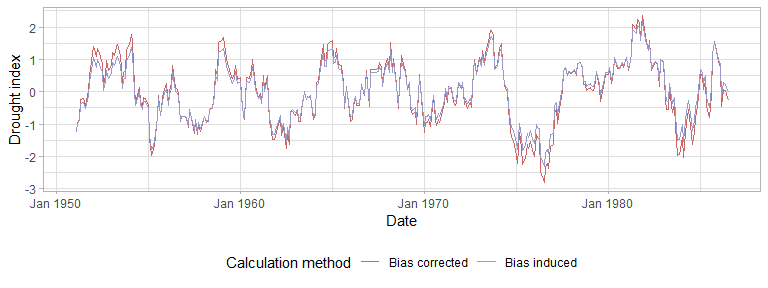
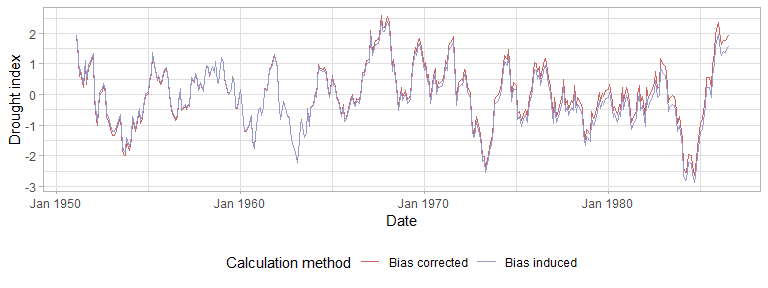
updating README

Changed region(s): [[0.0312, 0.0312, 1.0, 0.6875]]

diff --git a/README.md b/README.md
@@ -25,6 +25,10 @@ devtools::install_github("mammask/droughtR")
 
 ### Generate SPI and NSPI
 
+The function `computenspi` creates stationary and non-stationary
+meteorological drought indices at different time scales. By default,
+droughtR uses the gamma distribution:
+
 ``` r
 # Load droughtR library
 library(droughtR)
@@ -37,10 +41,9 @@ rain = dummyrainfall(startYear = 1950, endYear = 2010)
 
 # Compute the non-stationary standardized precipitation index (NSPI) for scale 12 using GAMLSS
 drought = computenspi(x = rain, stationaryspi = FALSE, spiScale = 12, dist = 'gamma')
-#> GAMLSS-RS iteration 1: Global Deviance = 3705.162 
-#> GAMLSS-RS iteration 2: Global Deviance = 3704.874 
-#> GAMLSS-RS iteration 3: Global Deviance = 3704.872 
-#> GAMLSS-RS iteration 4: Global Deviance = 3704.871
+#> GAMLSS-RS iteration 1: Global Deviance = 3310.748 
+#> GAMLSS-RS iteration 2: Global Deviance = 3310.49 
+#> GAMLSS-RS iteration 3: Global Deviance = 3310.49
 
 # Plot NSPI
 plot(drought)
@@ -48,31 +51,113 @@ plot(drought)
 
 <img src="README_figs/README-unnamed-chunk-3-1.png" style="display: block; margin: auto;" />
 
-### Reduced-Bias forecasting framework
+#### Model-Based Comparison of Drought Indices
+
+Using droughtR, we can compute indices under various distribution
+assumptions and then compare their fit according to how well they
+describe the data. In the following example, we generated synthetic
+rainfall data using the gamma distribution and then we created two
+non-stationary drought indices using the gamma and weibull distributions
+accordingly.
+
+``` r
+# Generate a synthetic rainfall dataset
+rainfall = dummyrainfall(startYear = 1950, endYear = 2023)
+
+# Create a non-stationary meteorological index under the gamma distribution assumption
+gammaIndex = computenspi(x = rainfall, stationaryspi = FALSE, spiScale = 12, dist = 'gamma')[["model"]]
+#> GAMLSS-RS iteration 1: Global Deviance = 4220.338 
+#> GAMLSS-RS iteration 2: Global Deviance = 4219.897 
+#> GAMLSS-RS iteration 3: Global Deviance = 4219.894 
+#> GAMLSS-RS iteration 4: Global Deviance = 4219.894
+
+# Plot the model diagnostics 
+plot(gammaIndex)
+```
+
+<img src="README_figs/README-unnamed-chunk-4-1.png" style="display: block; margin: auto;" />
+
+    #> ******************************************************************
+    #>        Summary of the Quantile Residuals
+    #>                            mean   =  0.0004645257 
+    #>                        variance   =  1.001428 
+    #>                coef. of skewness  =  -0.3648898 
+    #>                coef. of kurtosis  =  2.836916 
+    #> Filliben correlation coefficient  =  0.9942522 
+    #> ******************************************************************
+
+    # Create a non-stationary meteorological index under the weibull distribution assumption
+    weibullIndex = computenspi(x = rainfall, stationaryspi = FALSE, spiScale = 12, dist = 'weibull')$model
+    #> GAMLSS-RS iteration 1: Global Deviance = 4228.044 
+    #> GAMLSS-RS iteration 2: Global Deviance = 4225.758 
+    #> GAMLSS-RS iteration 3: Global Deviance = 4225.714 
+    #> GAMLSS-RS iteration 4: Global Deviance = 4225.712 
+    #> GAMLSS-RS iteration 5: Global Deviance = 4225.712
+
+    plot(weibullIndex)
+
+<img src="README_figs/README-unnamed-chunk-4-2.png" style="display: block; margin: auto;" />
+
+    #> ******************************************************************
+    #>        Summary of the Quantile Residuals
+    #>                            mean   =  0.005663939 
+    #>                        variance   =  0.9404692 
+    #>                coef. of skewness  =  0.4193841 
+    #>                coef. of kurtosis  =  2.961977 
+    #> Filliben correlation coefficient  =  0.9932369 
+    #> ******************************************************************
+
+As presented in the diagnostic charts, the Normal Q-Q plot of the GAMLSS
+model residuals suggest that the non-stationary index under the gamma
+distribution has a better fit.
+
+In this example, `GAIC()` is used to compare the two model-based drought
+indices using the AIC:
+
+``` r
+library(gamlss)
+#> Loading required package: splines
+#> Loading required package: gamlss.data
+#> 
+#> Attaching package: 'gamlss.data'
+#> The following object is masked from 'package:datasets':
+#> 
+#>     sleep
+#> Loading required package: gamlss.dist
+#> Loading required package: nlme
+#> Loading required package: parallel
+#>  **********   GAMLSS Version 5.4-20  **********
+#> For more on GAMLSS look at https://www.gamlss.com/
+#> Type gamlssNews() to see new features/changes/bug fixes.
+
+# Compare the two model based implementations using AIC
+GAIC(gammaIndex, weibullIndex)
+#>              df      AIC
+#> gammaIndex    4 4227.894
+#> weibullIndex  4 4233.712
+```
 
 #### Data Split
 
-You can simply split the data into train, validation and test using
-`oossplit`:
-
-<img src="./README_figs/data split.png" width="400px" style="display: block; margin: auto;" />
+The `oossplit` function splits the data into train, validation and test
+sets:
 
 ``` r
 # Split the rainfall series into training validation and test set:
 rain = oossplit(x = rain, trainratio = 0.6, validationratio = 0.2, testratio = 0.2)
 print(rain)
 #>          Date Rainfall Split
-#>   1: Jan 1950 9.020967 Train
-#>   2: Feb 1950 7.814959 Train
-#>   3: Mar 1950 8.027403 Train
-#>   4: Apr 1950 5.616300 Train
-#>   5: May 1950 8.916673 Train
+#>   1: Jan 1950 9.138443 Train
+#>   2: Feb 1950 7.098604 Train
+#>   3: Mar 1950 9.025275 Train
+#>   4: Apr 1950 6.285809 Train
+#>   5: May 1950 9.120874 Train
 #>  ---                        
-#> 606: Jul 2010 6.601038  Test
-#> 607: Aug 2010 6.824187  Test
-#> 608: Sep 2010 8.352428  Test
-#> 609: Oct 2010 7.650165  Test
-#> 610: Nov 2010 7.943304  Test
+#> 606: Jul 2010 8.220249  Test
+#> 607: Aug 2010 7.782283  Test
+#> 608: Sep 2010 7.153345  Test
+#> 609: Oct 2010 8.361481  Test
+#> 610: Nov 2010 7.915945  Test
 ```
 
 #### Bias measurement
@@ -100,35 +185,30 @@ rain = dummyrainfall(startYear = 1950, endYear = 2010)
 
 # Compute bias
 bias = measurebias(x = rain, trainratio = 0.6, validationratio = 0.2, testratio = 0.2, stationaryspi = TRUE, spiscale = 12, dist = 'normal')
-#> GAMLSS-RS iteration 1: Global Deviance = 1892.624 
-#> GAMLSS-RS iteration 2: Global Deviance = 1892.624 
-#> GAMLSS-RS iteration 1: Global Deviance = 3384.516 
-#> GAMLSS-RS iteration 2: Global Deviance = 3384.516
+#> GAMLSS-RS iteration 1: Global Deviance = 2100.173 
+#> GAMLSS-RS iteration 2: Global Deviance = 2100.173 
+#> GAMLSS-RS iteration 1: Global Deviance = 3511.566 
+#> GAMLSS-RS iteration 2: Global Deviance = 3511.566
 bias
 #> $Transitions
-#>     Bias Corrected Class Bias Induced Class   N
-#>  1:       Moderately Dry     Moderately Dry  18
-#>  2:          Near Normal        Near Normal 231
-#>  3:       Moderately Wet     Moderately Wet  19
-#>  4:       Moderately Wet        Near Normal  15
-#>  5:             Very Wet     Moderately Wet  14
-#>  6:        Extremely Dry           Very Dry  11
-#>  7:             Very Dry           Very Dry   4
-#>  8:       Moderately Dry        Near Normal  15
-#>  9:             Very Dry     Moderately Dry  12
-#> 10:             Very Wet           Very Wet   9
-#> 11:        Extremely Dry      Extremely Dry   2
-#> 12:        Extremely Wet           Very Wet   1
-#> 13:        Extremely Wet      Extremely Wet   3
-#> 14:          Near Normal     Moderately Wet   1
+#>    Bias Corrected Class Bias Induced Class   N
+#> 1:          Near Normal        Near Normal 238
+#> 2:       Moderately Dry     Moderately Dry  26
+#> 3:             Very Dry           Very Dry  19
+#> 4:             Very Wet           Very Wet  19
+#> 5:       Moderately Wet     Moderately Wet  24
+#> 6:        Extremely Dry      Extremely Dry   6
+#> 7:          Near Normal     Moderately Wet   4
+#> 8:       Moderately Wet           Very Wet   5
+#> 9:        Extremely Wet      Extremely Wet  14
 #> 
 #> $`Impacted Records`
-#> [1] "19.44% of records changed drought class"
+#> [1] "2.54% of records changed drought class"
 #> 
 #> $Plot
 ```
 
-<img src="README_figs/README-unnamed-chunk-6-1.png" style="display: block; margin: auto;" />
+<img src="README_figs/README-unnamed-chunk-7-1.png" style="display: block; margin: auto;" />
 
 ### References
 
